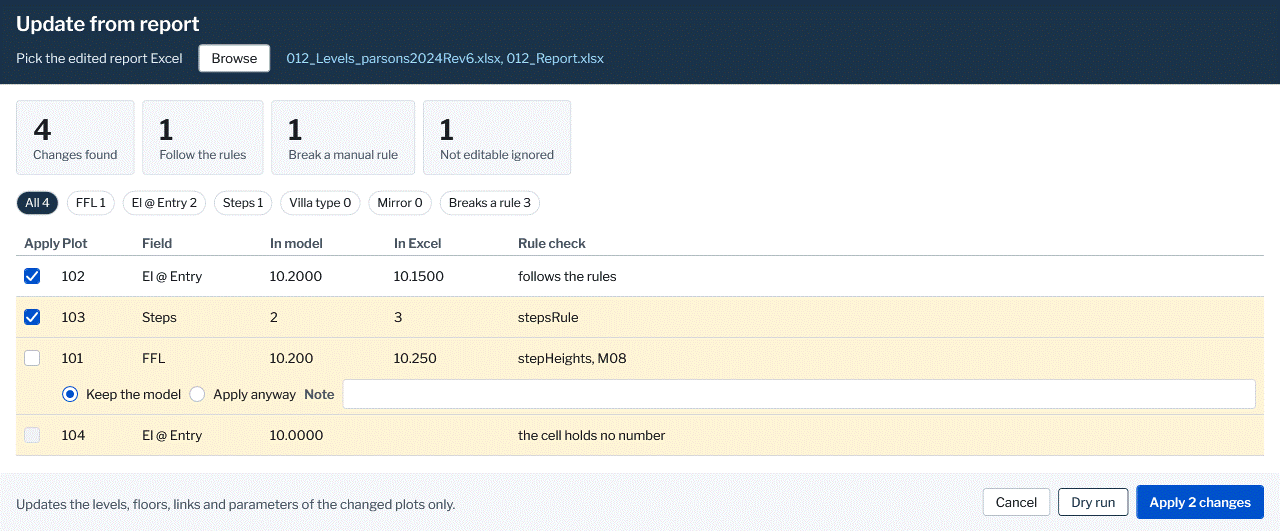
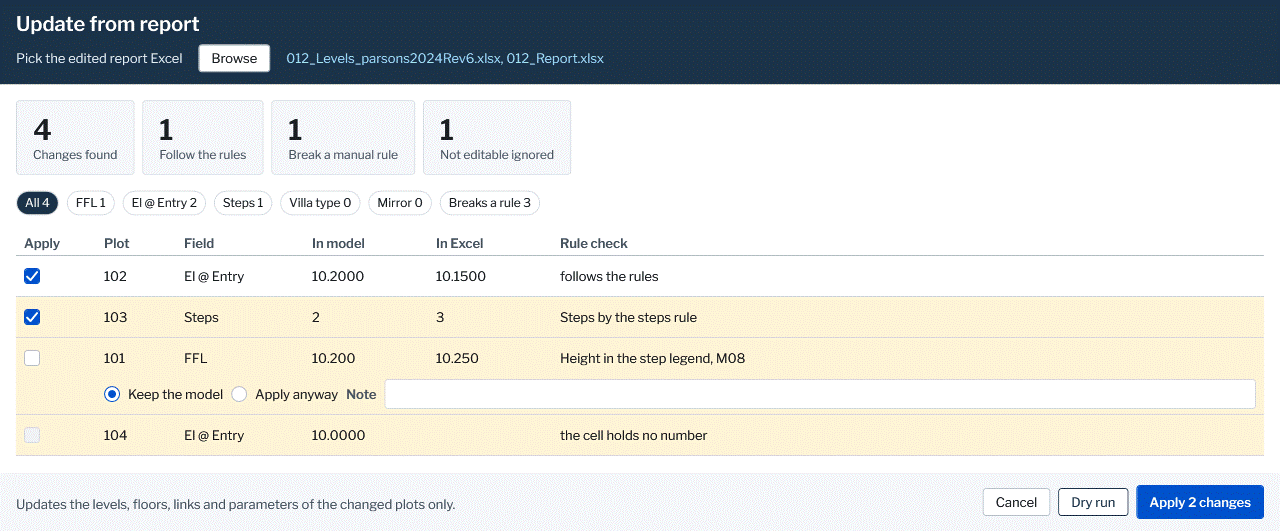
5f review 1: the rule id as tooltip, the Apply column apart from Plot, the PNG again, the README differences, Q179

diff --git a/dotnet/SiteAdaptation.AddIn/Update/UpdateFromReportWindow.xaml b/dotnet/SiteAdaptation.AddIn/Update/UpdateFromReportWindow.xaml
@@ -76,7 +76,7 @@
           <StackPanel>
             <Grid MinHeight="{StaticResource SA.Size.Row}">
               <Grid.ColumnDefinitions>
-                <ColumnDefinition Width="{StaticResource SA.Grid.StepMark}" />
+                <ColumnDefinition Width="{StaticResource SA.Grid.CheckDiff}" />
                 <ColumnDefinition Width="{StaticResource SA.Grid.CheckDiff}" />
                 <ColumnDefinition Width="{StaticResource SA.Grid.CheckPoint}" />
                 <ColumnDefinition Width="{StaticResource SA.Grid.Label}" />
@@ -88,11 +88,11 @@
               <TextBlock Grid.Column="2" Style="{StaticResource RowText}" Text="{Binding Field}" />
               <TextBlock Grid.Column="3" Style="{StaticResource RowText}" Text="{Binding InModel}" />
               <TextBlock Grid.Column="4" Style="{StaticResource RowText}" Text="{Binding InExcel}" />
-              <TextBlock Grid.Column="5" Style="{StaticResource RowText}" Text="{Binding RuleCheck}" />
+              <TextBlock Grid.Column="5" Style="{StaticResource RowText}" Text="{Binding RuleCheck}" ToolTip="{Binding RuleIds}" />
             </Grid>
             <Grid Margin="{StaticResource SA.Gap.Top4}" Visibility="{Binding BreaksManual, Converter={StaticResource Shown}}">
               <Grid.ColumnDefinitions>
-                <ColumnDefinition Width="{StaticResource SA.Grid.StepMark}" />
+                <ColumnDefinition Width="{StaticResource SA.Grid.CheckDiff}" />
                 <ColumnDefinition Width="Auto" />
                 <ColumnDefinition Width="Auto" />
                 <ColumnDefinition Width="Auto" />
@@ -172,7 +172,7 @@
         <Border Margin="{StaticResource SA.Gap.Top16}" Padding="{StaticResource SA.Pad.Cell}" BorderBrush="{StaticResource SA.BorderStrong}" BorderThickness="{StaticResource SA.Line.Under}">
           <Grid>
             <Grid.ColumnDefinitions>
-              <ColumnDefinition Width="{StaticResource SA.Grid.StepMark}" />
+              <ColumnDefinition Width="{StaticResource SA.Grid.CheckDiff}" />
               <ColumnDefinition Width="{StaticResource SA.Grid.CheckDiff}" />
               <ColumnDefinition Width="{StaticResource SA.Grid.CheckPoint}" />
               <ColumnDefinition Width="{StaticResource SA.Grid.Label}" />

diff --git a/dotnet/SiteAdaptation.Tests/UiShotTests.cs b/dotnet/SiteAdaptation.Tests/UiShotTests.cs
@@ -364,6 +364,42 @@ namespace SiteAdaptation.Tests
             return BitmapSource.Create(width, height, 96, 96, PixelFormats.Bgra32, null, pixels, width * 4);
         }
 
+        // Review 1 of 5e and 5f: the Rule check cell shows the plain name with the rule id as its tooltip (12-ui-spec.md line 11), and
+        // the Apply column is wide enough that its header and Plot read apart
+        [Fact]
+        public void R402_the_rule_check_cell_has_the_rule_id_as_tooltip_and_the_apply_column_keeps_its_header_apart()
+        {
+            OnSta(() =>
+            {
+                var window = Shots.LaidOutUpdate();
+                List<TextBlock> texts = Below<TextBlock>(Shots.Body(window)).ToList();
+                TextBlock steps = texts.Single(text => text.ToolTip as string == "stepsRule");
+                Assert.NotEqual("stepsRule", steps.Text);
+                TextBlock apply = texts.First(text => text.Text == "Apply");
+                TextBlock plot = texts.First(text => text.Text == "Plot");
+                // A TextBlock stretches over its column, so the end of the word is where its text ends, its desired width
+                Point left = apply.TranslatePoint(new Point(apply.DesiredSize.Width, 0), Shots.Body(window));
+                Point right = plot.TranslatePoint(new Point(0, 0), Shots.Body(window));
+                Assert.True(right.X - left.X >= 8, "Apply ends at " + left.X + ", Plot starts at " + right.X);
+            });
+        }
+
+        private static IEnumerable<T> Below<T>(DependencyObject root) where T : DependencyObject
+        {
+            for (int index = 0; index < VisualTreeHelper.GetChildrenCount(root); index++)
+            {
+                DependencyObject child = VisualTreeHelper.GetChild(root, index);
+                if (child is T found)
+                {
+                    yield return found;
+                }
+                foreach (T deeper in Below<T>(child))
+                {
+                    yield return deeper;
+                }
+            }
+        }
+
         private static void OnSta(Action action)
         {
             Exception failure = null;

diff --git a/dotnet/SiteAdaptation.UiShots/Shots.cs b/dotnet/SiteAdaptation.UiShots/Shots.cs
@@ -165,14 +165,21 @@ namespace SiteAdaptation.UiShots
 
         private static BitmapSource UpdatePage()
         {
-            var session = new UpdateFromReportSession(new UpdateFromReportCallbacks(), () => null);
-            session.Model.Load(SampleUpdateList(), new[] { "012_Levels_parsons2024Rev6.xlsx", "012_Report.xlsx" });
-            var window = new UpdateFromReportWindow(session);
-            FrameworkElement body = LayOut(window);
+            FrameworkElement body = Body(LaidOutUpdate());
             var bitmap = new RenderTargetBitmap((int)body.ActualWidth, (int)body.ActualHeight, Dpi, Dpi, PixelFormats.Pbgra32);
             bitmap.Render(body);
             bitmap.Freeze();
             return bitmap;
+        }
+
+        // The Update from report window with the sample list, measured and arranged and not shown, so a test can read its parts
+        public static UpdateFromReportWindow LaidOutUpdate()
+        {
+            var session = new UpdateFromReportSession(new UpdateFromReportCallbacks(), () => null);
+            session.Model.Load(SampleUpdateList(), new[] { "012_Levels_parsons2024Rev6.xlsx", "012_Report.xlsx" });
+            var window = new UpdateFromReportWindow(session);
+            LayOut(window);
+            return window;
         }
 
         // Made up numbers only. Four changes of NBH 012: one that follows the rules, one that breaks a profile rule, one that breaks a manual

diff --git a/steps/questions-open.md b/steps/questions-open.md
@@ -7,7 +7,7 @@ Every question open before 2026-10-29 was closed in the answer pass of Round FOL
 ## Open
 
 Q148 Place villas before Floors and Levels after 5c. Q149 M14 boundary wall of an irregular plot. Q150 M15 foundation depth, at least or equal. Q151 Q075 moved without the majority run. Q152 Mode of the last run of a button. Q153 A lone copy of a tagged element.
-Q154 Freeze guard limit for an image job. Q155 The parameter sheet of button 1. Q156 The GUID of Plot. Q157 The type button 1 copies new types from. Q158 Step 1 Done on a model already set up. Q159 Q055 reads 11 more 1.4 plots off the ramp. Q160 A plot list takes unit plots only. Q161 A changed step reruns every higher step. Q162 Reads of entryM with heightM or rampFrontM. Q163 A yard that stands only by its mirror. Q164 Levels count and the link Z of 7. Q165 Shape of the block manualRules. Q166 Manual rule of a check row. Q167 Manual rule on the other sheets. Q168 The villa type of Update from report. Q169 Key of an update entry with none of its job. Q170 updateChecks of manualRules. Q171 Which breaks untick a change. Q172 heightM gap with an El @ Entry edit. Q173 Level profile of Update from report. Q174 The plan Update from report reads. Q175 Run log format 9 Report reads. Q176 Plain names of the update rule checks. Q177 Manual rule ids in Rule check. Q178 A computed mirror edit breaks the hand rule.
+Q154 Freeze guard limit for an image job. Q155 The parameter sheet of button 1. Q156 The GUID of Plot. Q157 The type button 1 copies new types from. Q158 Step 1 Done on a model already set up. Q159 Q055 reads 11 more 1.4 plots off the ramp. Q160 A plot list takes unit plots only. Q161 A changed step reruns every higher step. Q162 Reads of entryM with heightM or rampFrontM. Q163 A yard that stands only by its mirror. Q164 Levels count and the link Z of 7. Q165 Shape of the block manualRules. Q166 Manual rule of a check row. Q167 Manual rule on the other sheets. Q168 The villa type of Update from report. Q169 Key of an update entry with none of its job. Q170 updateChecks of manualRules. Q171 Which breaks untick a change. Q172 heightM gap with an El @ Entry edit. Q173 Level profile of Update from report. Q174 The plan Update from report reads. Q175 Run log format 9 Report reads. Q176 Plain names of the update rule checks. Q177 Manual rule ids in Rule check. Q178 A computed mirror edit breaks the hand rule. Q179 Guide line, side box and row mark of Update.
 
 Q148. Place villas before Floors and Levels in the run after 5c (Round FOLD, review of the design PR 102). The new order of docs/design/13-workflow-changes.md has each step wait for the one before, so 7 Place villas waits for 6 Levels, and 5d builds 5 Floors and ramps and 6 Levels. The phase changes of 28 Oct 2026 give 5c the Place villas button with light mode, and the Revit run after 5c places villas in Masses and in one NBH in Links. Round FOLD wrote that the test host runs 7 by Buttons.Run on the plan before 5 and 6 are built (CHOSEN, steps/01_next.md). It does not block 5b or 5c.
 - Recommended: keep it. The test host runs 7 from the plan in the run after 5c, which measures light mode and the base boundary as 28 Oct asks, and the pane keeps the order, so a user cannot run 7 before 6.
@@ -133,3 +133,7 @@ Q177. Manual rule ids in Rule check (R402, 5f). A change that breaks a manual ru
 Q178. A computed mirror edit breaks the hand rule (R402, 5f). Where the plan's mirror came from the hand rules of the profile (2,457 plots, source computed), an edit of Mirror breaks the check handRule. An override mirror (61 plots) is not checked. The change stays ticked, since only a manual rule break unticks (Q171).
 - Recommended: keep it, the team sees the break and decides.
 - Other: untick such a change by default.
+
+Q179. Guide line, side box and row mark of Update (W8, 5f, review 1). 12-ui-spec.md gives a new window a How to use line on SA.Guide, a side box 340 wide on SA.Panel and a selected row with the 3 px SA.Accent mark, as the check table has. 13-workflow-changes.md, part Update from report, gives no text for any of them, so the window of 5f has none (steps/ui-shots/update-from-report.png, listed in steps/ui-shots/README.md).
+- Recommended: add a How to use line, such as "Each row is a cell the team changed. Untick a change to keep the model, then Apply.", and keep no side box and no selected row, since each row shows all it holds.
+- Other: give all three, with the words of the guide line and what the side box shows.

diff --git a/steps/ui-shots/README.md b/steps/ui-shots/README.md
@@ -14,7 +14,7 @@ Control 3 of docs/design/12-ui-spec.md, UI controls. Each PNG is a render of a w
 | revit-ribbon.png | The Site Adaptation tab in Revit 2024, cut from the window by PrintWindow in Revit run 3 of 5a, 29 Oct 2026 | Taken in Revit, for Bader's check |
 | revit-pane.png | The live pane page in Revit run 3 of 5a by RenderTargetBitmap at 96 DPI, first open state, the detached document of the run active | Taken in Revit, for Bader's check |
 
-Bader's changes of 28 Oct 2026 (docs/design/13-workflow-changes.md) were rendered into all three in Lane B 5a PR 8, his UI answers Q135, Q139 and Q140 of 29 Oct 2026 in Lane B 5a run 3 (fixed items 12 to 14). Set up site is built in 5b (W1 of steps/lane-b.md), its PNG is setup-site.png and its lists are at the end of this file. The check table, Review data and Site Adaptation Rules come in 5c (W5), Update from report in 5f (W8), so none of these has a PNG yet.
+Bader's changes of 28 Oct 2026 (docs/design/13-workflow-changes.md) were rendered into all three in Lane B 5a PR 8, his UI answers Q135, Q139 and Q140 of 29 Oct 2026 in Lane B 5a run 3 (fixed items 12 to 14). Set up site is built in 5b (W1 of steps/lane-b.md), its PNG is setup-site.png and its lists are at the end of this file. The check table, Review data and Site Adaptation Rules come in 5c (W5), so none of these has a PNG yet. Update from report is built in 5f (W8), its PNG is update-from-report.png and its differences are at the end of this file.
 
 ## Render them again
 
@@ -201,3 +201,9 @@ Sizes
 27. Left the two tables as label and value rows with Will change, right the check point table, the pass line and the note, the foot on SA.Panel with Cancel, Dry run and Apply: held.
 28. The Floor types text, the row Ramp slope with its drop down 0.5%, 1%, 2%, then 3% to 15% and default 0.5% and its line, the Shared parameters row with its sheet and count in one line and Browse: held, tests R373_the_rows_stand_in_the_order_of_the_mock_with_the_three_rows_of_28_oct_2026, R373_the_ramp_slope_choices_are_05_1_2_then_3_to_15_percent_and_the_default_is_05 and R373_the_ramp_slope_row_holds_a_30_high_drop_down_of_16_choices_and_the_sheet_row_holds_browse.
 29. Apply off while the view holds stops or before the dry run: held, tests R373_apply_is_off_before_the_dry_run_and_while_the_view_holds_a_stop_and_on_after_the_dry_run and R373_the_buttons_of_the_window_drive_the_session_and_apply_is_off_before_the_dry_run.
+
+## Update from report, differences Code knows (5f)
+
+- 12-ui-spec.md gives a new window a How to use line on SA.Guide, a side box 340 wide on SA.Panel and a selected row with the 3 px SA.Accent mark. 13-workflow-changes.md, part Update from report, gives no text for any of the three, so the window has none of them (Q179).
+- Rule check shows the plain name of each check with its rule id as tooltip (12-ui-spec.md line 11), the 9 names CHOSEN in UpdateText.RuleNames (Q176). A manual rule shows its id such as M08 until 5c gives it a plain name (Q177).
+- The chips show their count after the name, such as FFL 1, as the tiles do, where 13-workflow-changes.md gives the names only (CHOSEN).

diff --git a/CLAUDE.md b/CLAUDE.md
@@ -41,7 +41,7 @@ Part 1 is the add-in. Part 2, the output sheets, waits for Bader's check of Part
 - Reviews in Phase 4 and 5 (D20): reviewer and breaker at once, one pass each, only on build logic, plan or Excel numbers, the override list or code that writes into a Revit model, a second pass only on a REAL logic fault. A window PR gets the reviewer alone with the UI checklist. Records, docs, tests only or install get none. No claim-checker, no prober. Elsewhere D12.
 - A REAL finding is fixed with a test, a LATENT one (no real input reaches it, Q095) goes to steps/latent.md. Parity and review on real inputs only. What is left after the passes becomes a question.
 - A fix on its third attempt stops, goes back to measuring and becomes a question. A Revit run probes first and its third attempt is a probe of the cause (D11).
-- A new question takes the next free ID, Q179 now.
+- A new question takes the next free ID, Q180 now.
 - Every fact in a report is tagged READ with a path, RAN with a count, SEARCHED with a link, CHOSEN or UNKNOWN.
 
 ## Records
